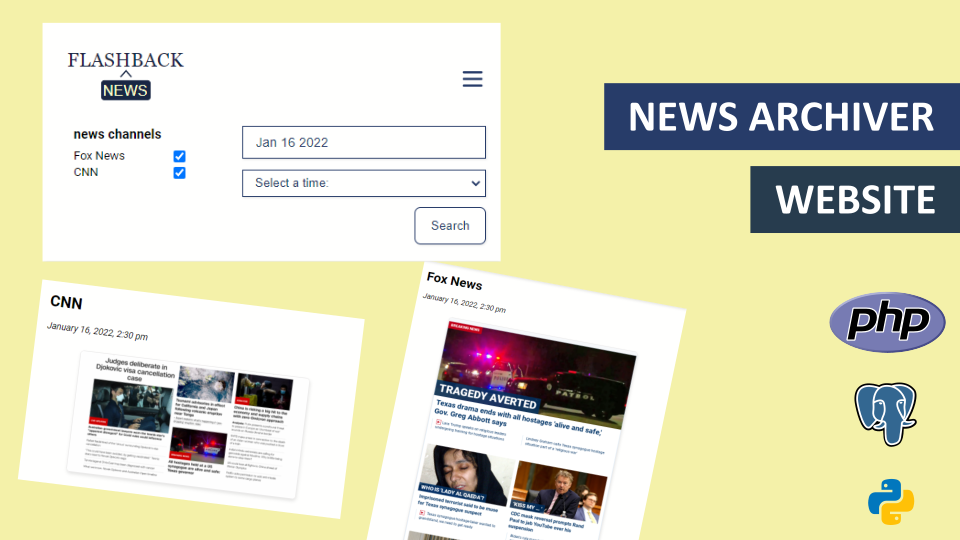
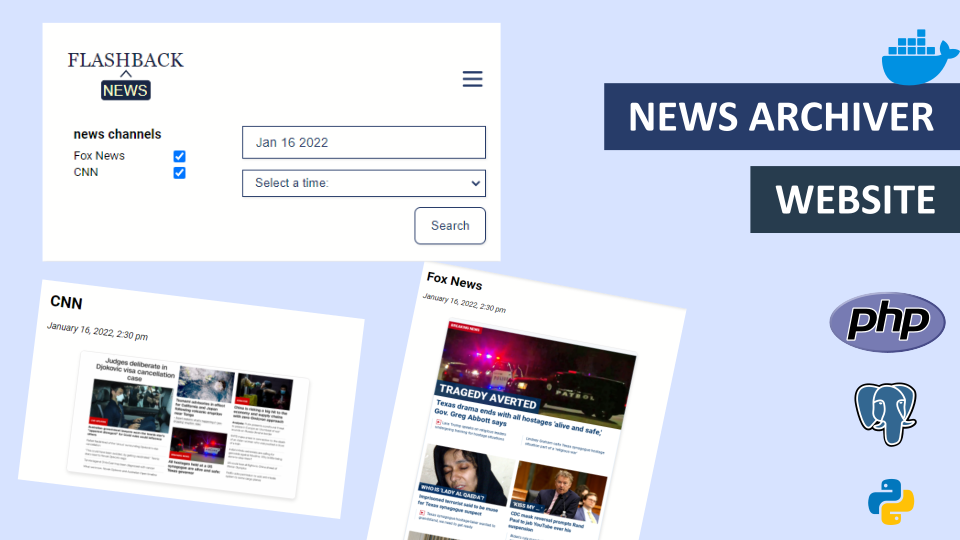
Updates

diff --git a/index.html b/index.html
@@ -59,27 +59,13 @@
             <div class="projects__list">
                 <article>
                     <div class="project__image">
-                        <img src="/assets/mockup.png" alt="">
-                    </div>
-                    <h3>Youtube Music Player</h3>
-                    <p>A responsive online music player that can search Youtube videos and play them as music.
-                        Built only on vanilla javascript and ES6 modules,
-                        it utilises the YouTube Player API for playback functions, as well as Youtube Data API for
-                        auto-complete search bar.
-                    </p>
-                    <div class="project__action">
-                        <a href="*">Visit</a>
-                        <a href="*">Source Code</a>
-                    </div>
-                </article>
-                <article>
-                    <div class="project__image">
-                        <img src="/assets/projects/fn_thumb.webp" alt="">
+                        <img src="/assets/projects/fn_thumb.webp" alt="news archiver image">
                     </div>
                     <h3>Flashback News</h3>
-                    <p>An online archiver for news headlines for mainstream media in the U.S. It stores headlines and
-                        screenshots for each news outlets every 30 minutes
-                        Current available news outlets are Fox News and CNN.</p>
+                    <p>A web archiver for news headlines from mainstream media in the U.S. It collects headlines and
+                        screenshots for each news outlets every 30 minutes. Current available news outlets are Fox News
+                        and CNN. Apart from the scraper and database, the web application itself is running in a docker
+                        environment.</p>
                     <div class="project__action">
                         <a href="*">Visit</a>
                         <a href="*">Source Code</a>
@@ -87,13 +73,12 @@
                 </article>
                 <article>
                     <div class="project__image">
-                        <img src="/assets/mockup.png" alt="">
+                        <img src="/assets/projects/travel_thumb.webp" alt="travel blog image">
                     </div>
                     <h3>Mapbox Blog</h3>
-                    <p>Made with Vue JS, A travel map application where users can pin their location and share reviews
-                        with others.
-                        It is powered by Mapbox GL JS which renders interactive maps. Features such as
-                        authentication and real-time database are managed by Google's Firebase on the backend.
+                    <p>A travel blog application where users can pin their location and share reviews
+                        with others. Powered by Vue JS on the frontend, Mapbox GL JS is also used to renders interactive
+                        map. Authentication and real-time database are managed by Google's Firebase.
 
                     </p>
                     <div class="project__action">
@@ -101,6 +86,22 @@
                         <a href="*">Source Code</a>
                     </div>
                 </article>
+                <article>
+                    <div class="project__image">
+                        <img src="/assets/projects/mp_thumb.webp" alt="music player image">
+                    </div>
+                    <h3>Youtube Music Player</h3>
+                    <p>A responsive music player that search and play Youtube videos as music.
+                        Built on plain javascript and ES6 modules, it utilises YouTube Player API for playback
+                        functions, and Youtube Data API for auto-complete search bar.
+                    </p>
+                    <div class="project__action">
+                        <a href="*">Visit</a>
+                        <a href="*">Source Code</a>
+                    </div>
+                </article>
+
+
             </div>
 
         </section>

diff --git a/main.css b/main.css
@@ -117,7 +117,6 @@ section:last-child {
 }
 
 .hero__intro {
-  margin-top: 3.45rem;
   width: 90%;
   max-width: 1700px;
   display: flex;
@@ -131,6 +130,7 @@ section:last-child {
     margin-top: 0;
   }
 }
+
 .hero__text h1 {
   font-size: 3.8rem;
 }
